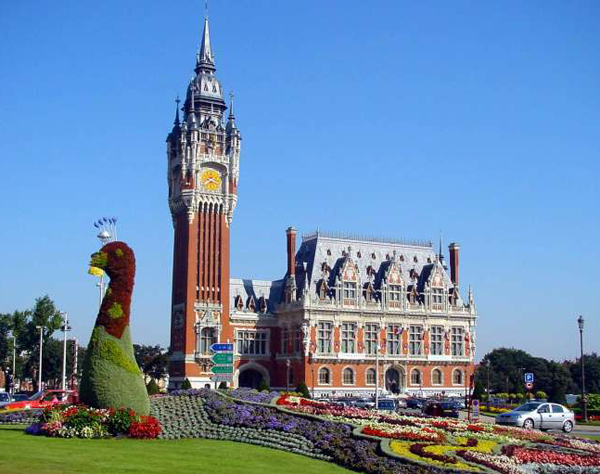
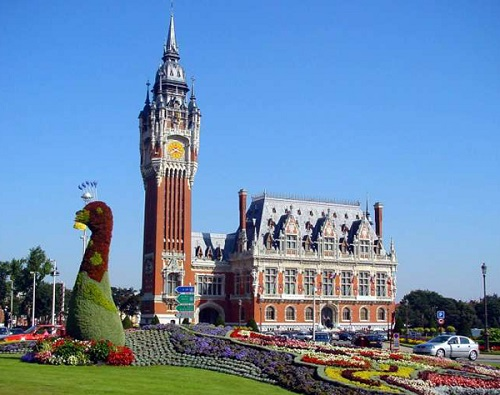
Img reduiteuh

diff --git a/index.html b/index.html
@@ -27,7 +27,7 @@
 			Lorem ipsum dolor sit amet, consectetur adipiscing elit, sed do eiusmod tempor incididunt ut labore et dolore magna aliqua. Ut enim ad minim veniam, quis nostrud exercitation ullamco laboris nisi ut aliquip ex ea commodo consequat. Duis aute irure dolor in reprehenderit in voluptate velit esse cillum dolore eu fugiat nulla pariatur. Excepteur sint occaecat cupidatat non proident, sunt in culpa qui officia deserunt mollit anim id est laborum.
 		</p>
 		<p id='par3'>
-			Lorem ipsum dolor sit amet.<img src='img/calais.jpg'/>
+			Lorem ipsum dolor sit amet.<img src='img/calais.jpg' width='500px'/>
 		</p>
 		<div id='formulaire'>
 			<form method='POST' action=''>
